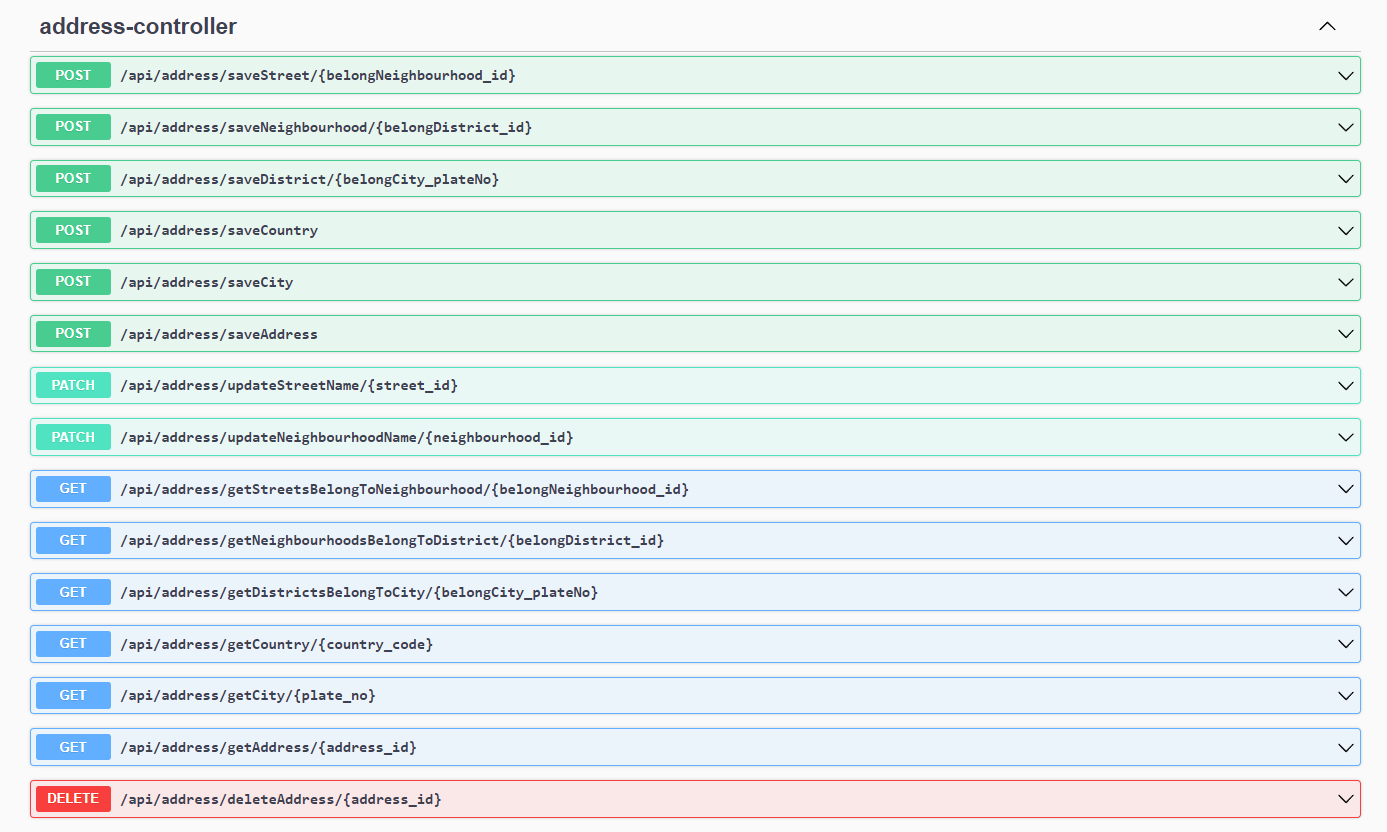
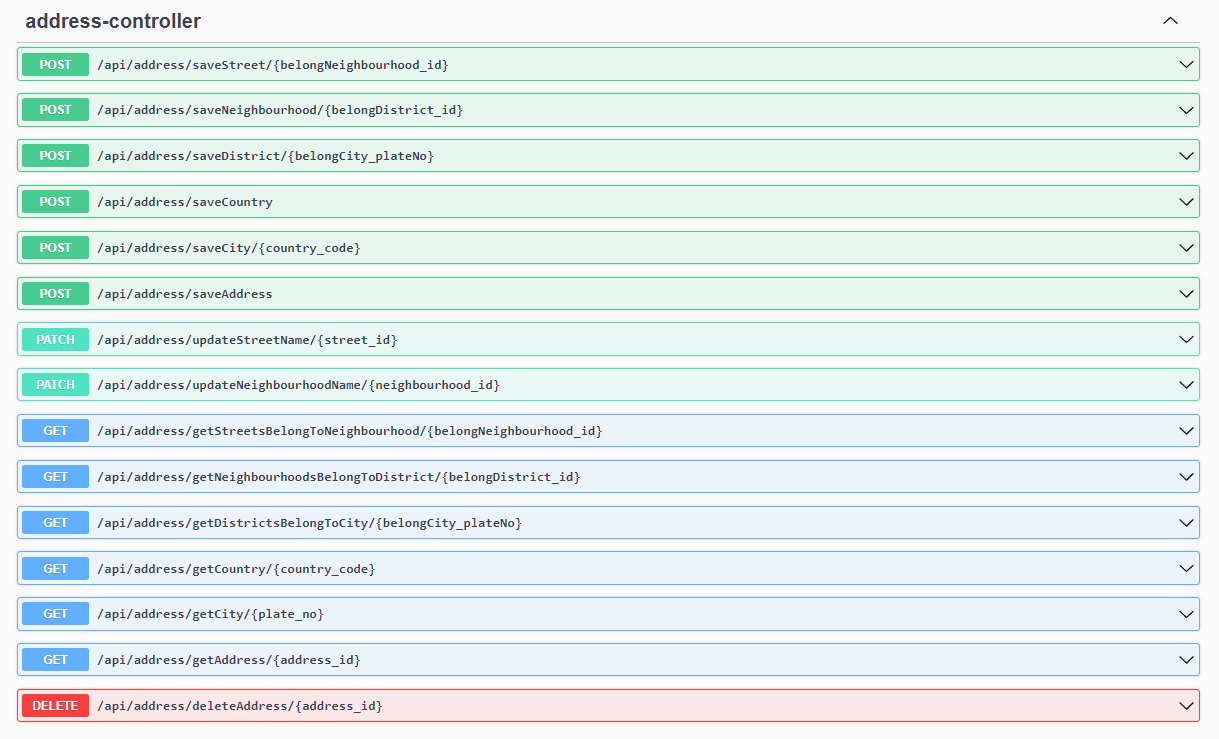
Update Controller and Schema Image

Changed region(s): [[0.0, 0.0, 0.9975, 0.9959]]

diff --git a/hw2/src/main/java/com/farukkavlak/hw2/Controller/AddressController.java b/hw2/src/main/java/com/farukkavlak/hw2/Controller/AddressController.java
@@ -53,9 +53,9 @@ public class AddressController {
 
     //CITY
     //Save city with given city entity
-    @PostMapping("saveCity/{countryCode}")
-    public ResponseEntity saveCity(@RequestBody City city,@PathVariable("countryCode") int countryCode){
-        City savedCity = cityService.saveCity(city,countryCode);
+    @PostMapping("saveCity/{country_code}")
+    public ResponseEntity saveCity(@RequestBody City city,@PathVariable("country_code") int country_code){
+        City savedCity = cityService.saveCity(city,country_code);
         return new ResponseEntity(savedCity, HttpStatus.CREATED);
     }
 
